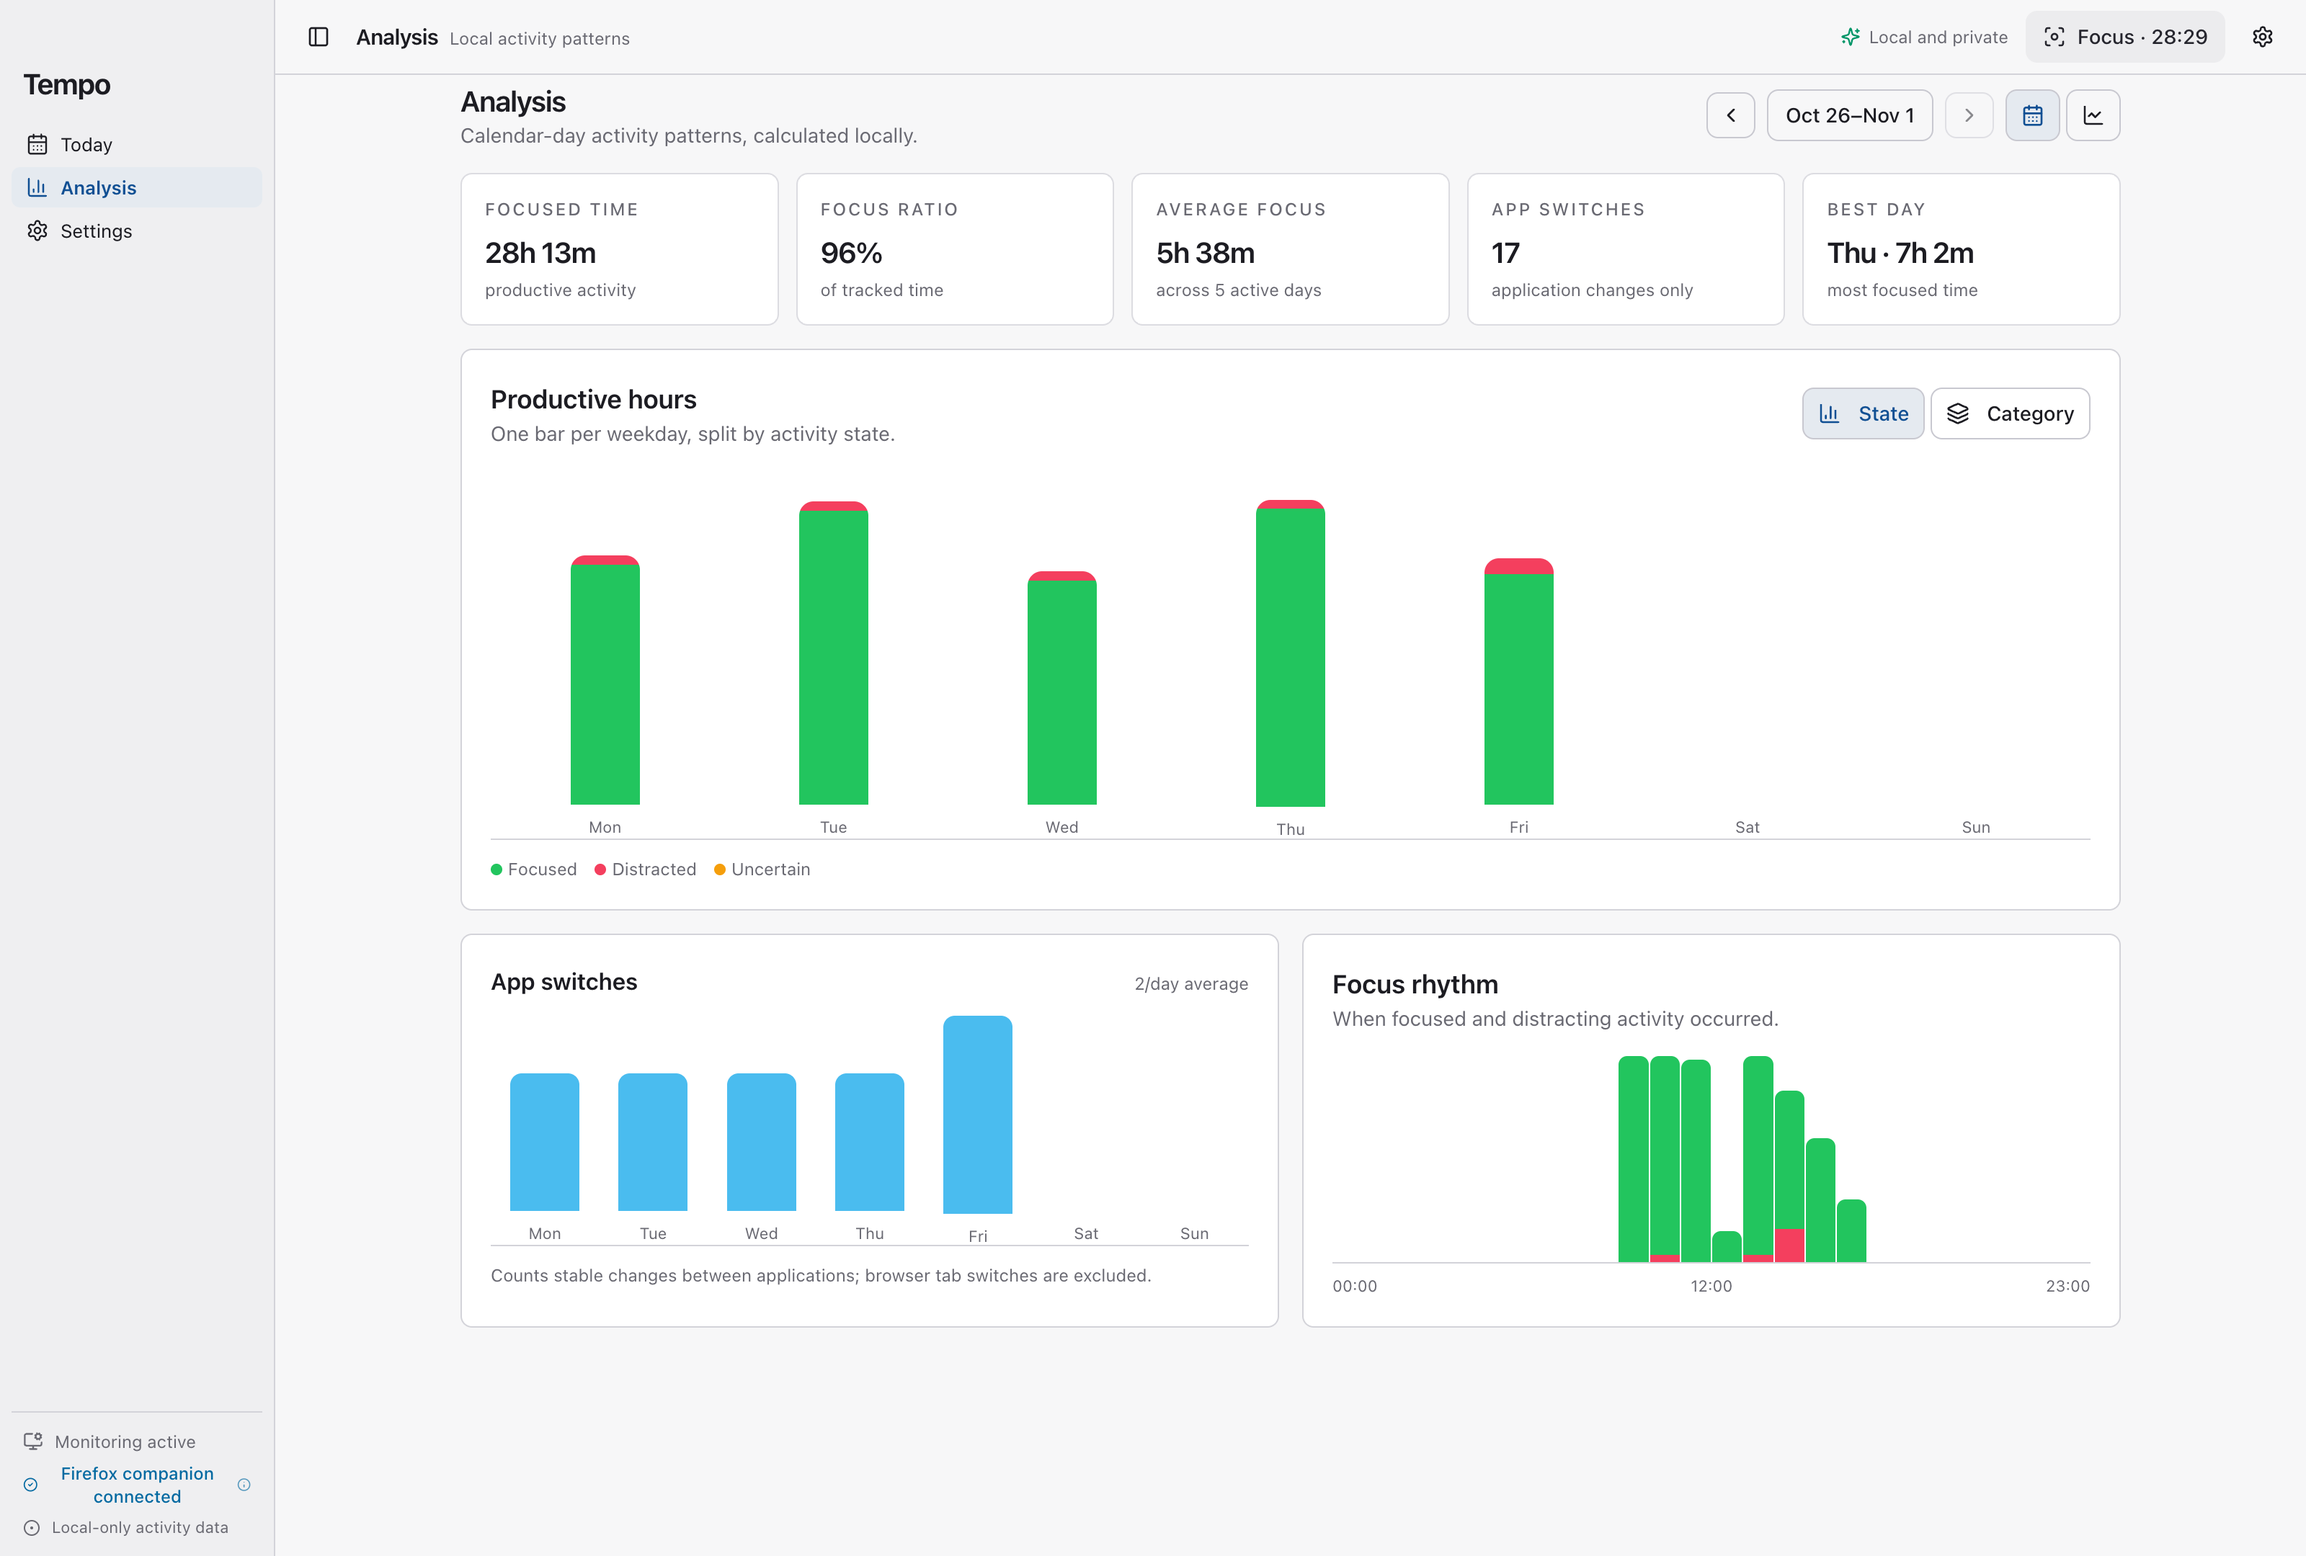
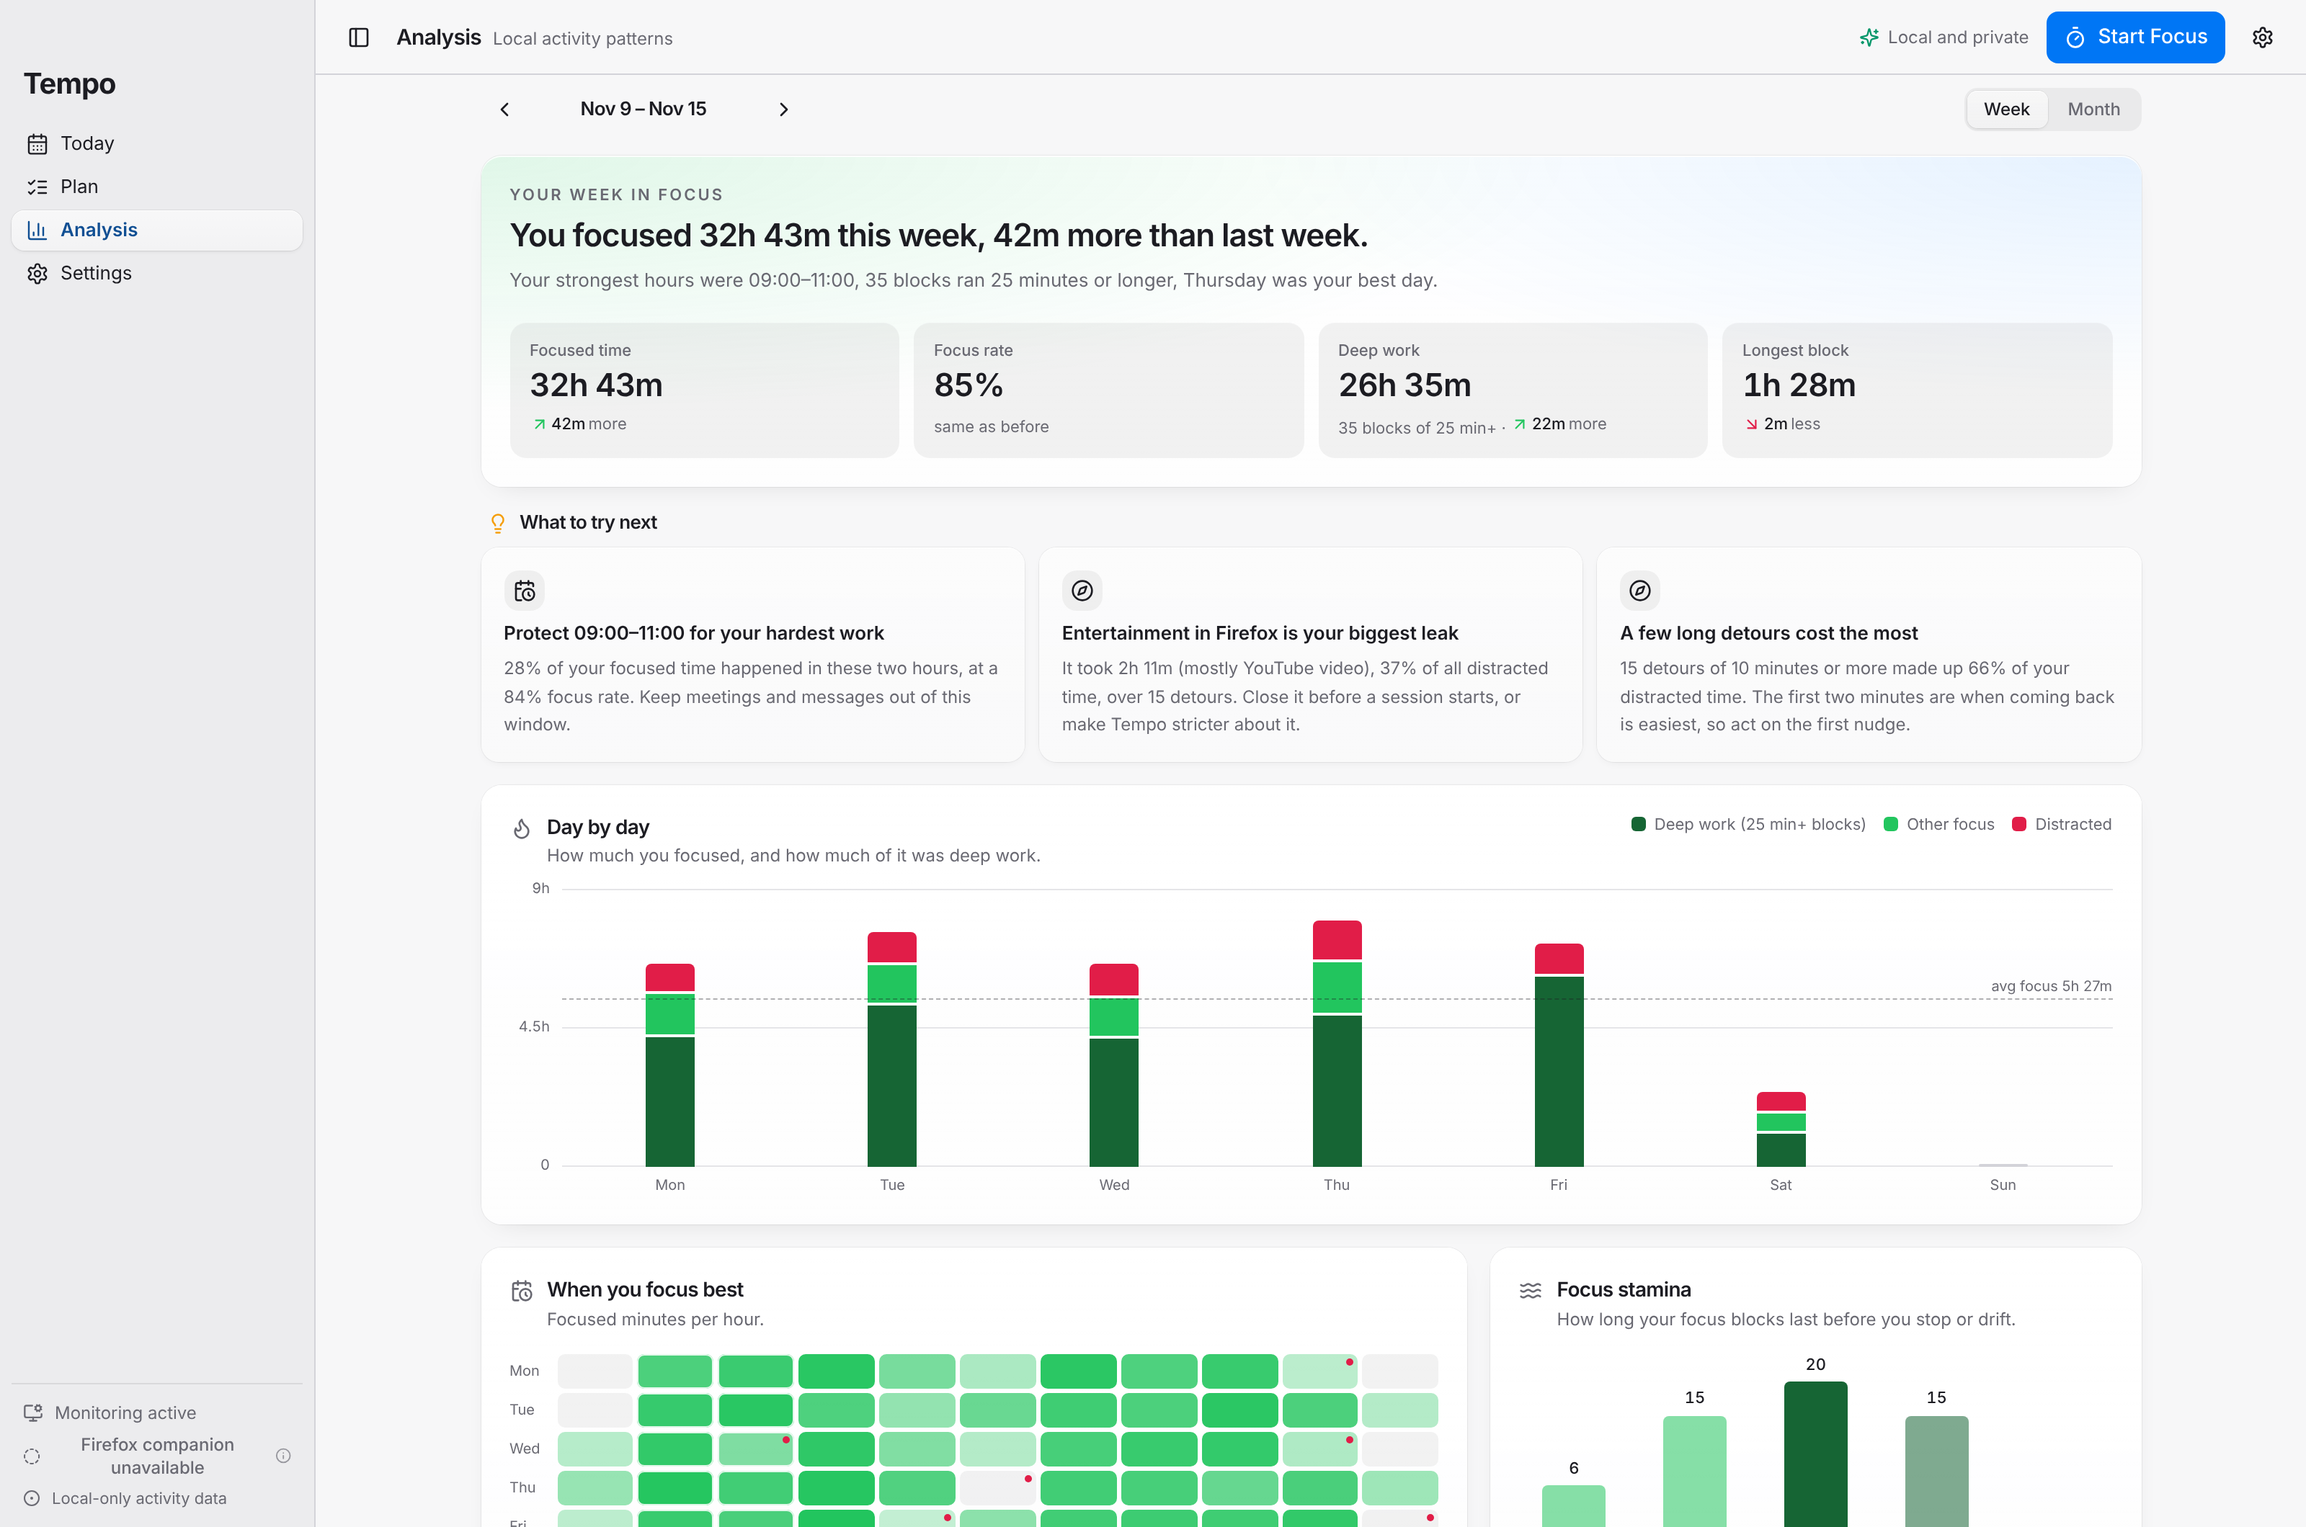
Replace the Today and Analysis screenshots with the current design
Both use synthetic sample data.

diff --git a/README.md b/README.md
@@ -48,7 +48,7 @@ Most time trackers can tell you that you spent the morning in Firefox. Tempo can
 
 You pick a task. A small language model running on your own Mac compares what is on screen with what you meant to do, and nothing leaves the machine. You get a timeline you can read back, a timer that lives in the notch, and a nudge when you drift.
 
-![Tempo's Today view with tasks, Calendar, and tracked activity](docs/images/tempo-today.png)
+![Tempo's Today view with the plan, Calendar, time per task and the timeline](docs/images/tempo-today.png)
 
 <div align="center">
 <table>
@@ -168,7 +168,7 @@ A session belongs to a task. You can pause it, change the goal while it runs, or
 
 ### Analysis
 
-![Tempo's weekly analytics](docs/images/tempo-analysis.png)
+![Tempo's Analysis tab for one week, with suggestions and focus by day](docs/images/tempo-analysis.png)
 
 The Analysis tab looks at a week or a month. It shows your focus day by day, the hours you focus best in, how long your focus blocks last, which apps and sites pull you away and how long it takes to get back, how timed sessions went against their estimates, and how much you switch between apps. From this it picks up to three suggestions for what to try next.
 
